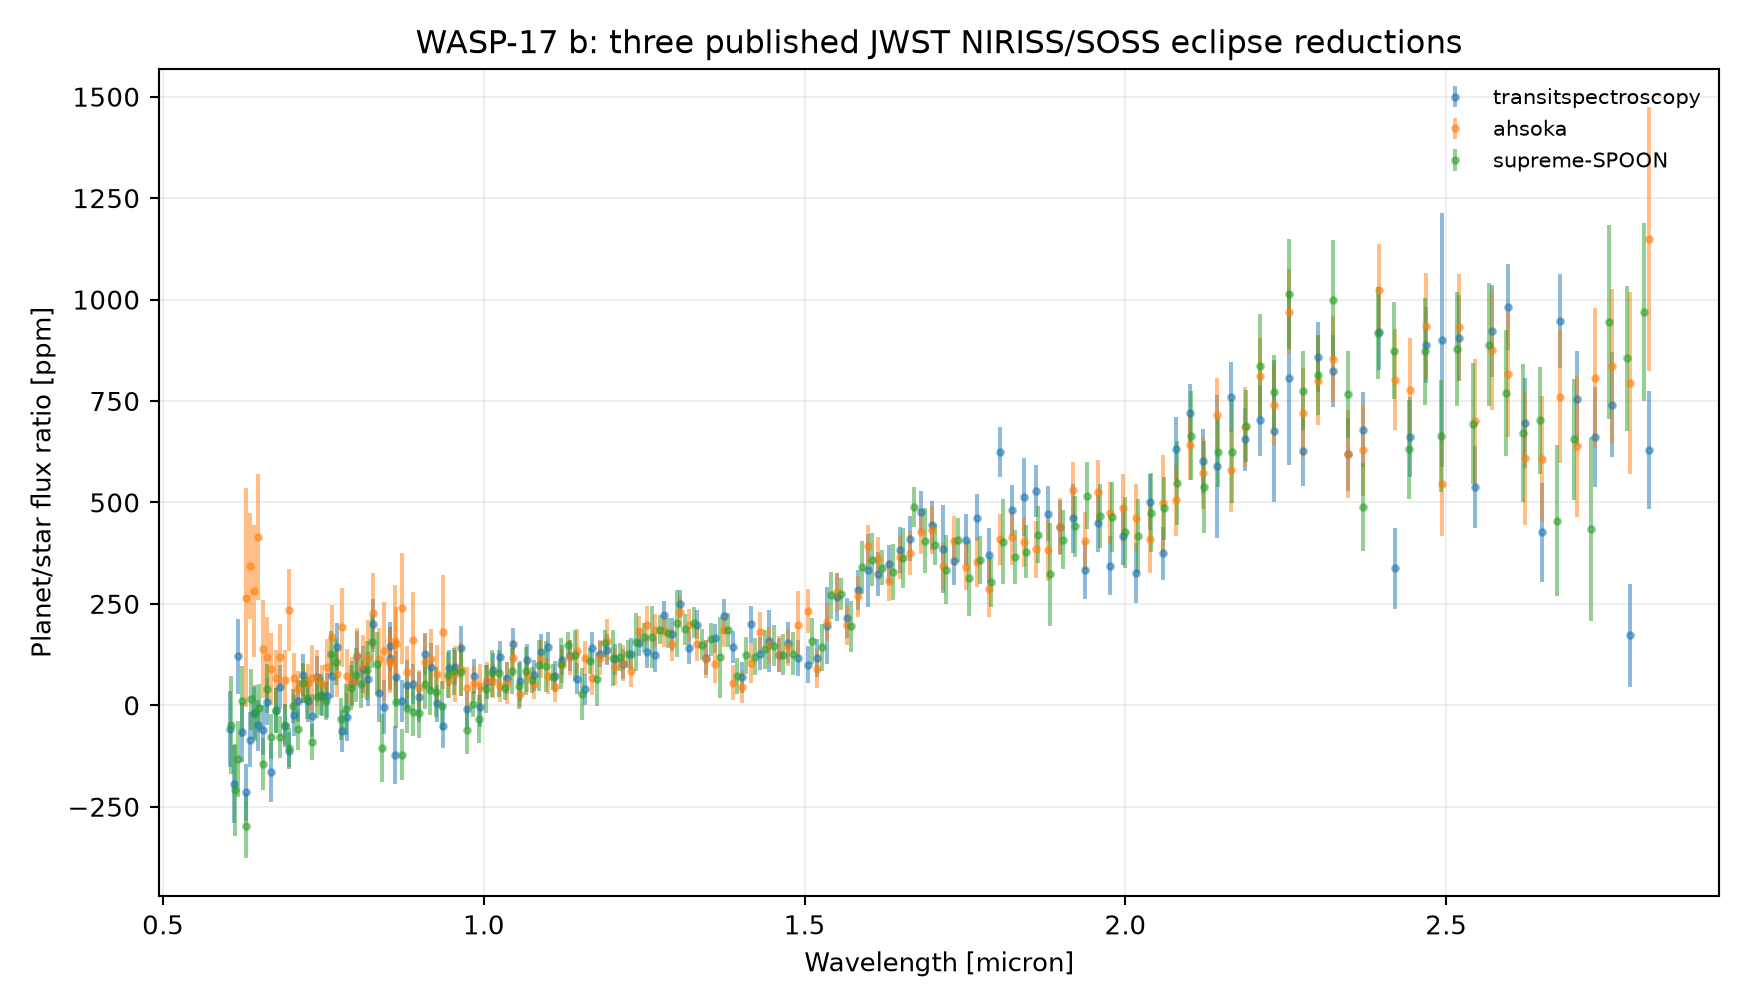
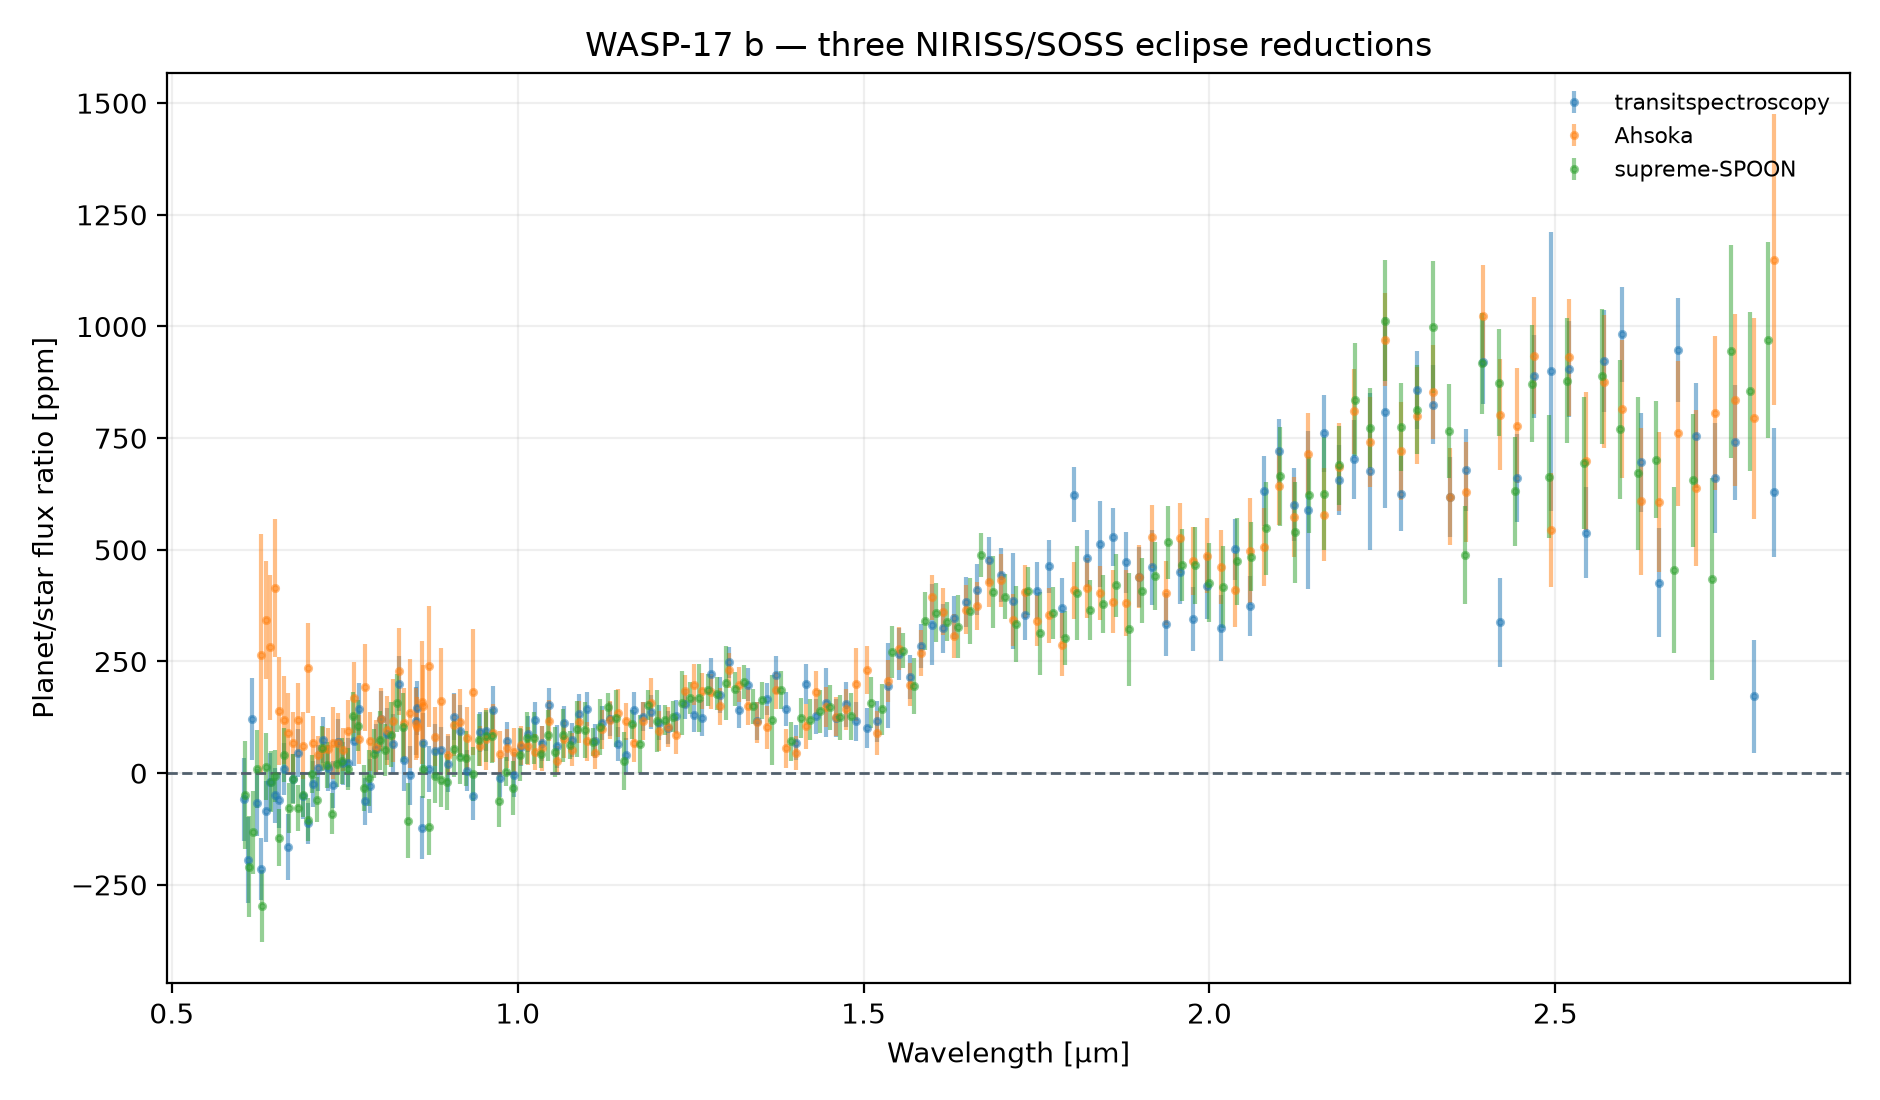
feat: quantify correlated NIRISS reductions

diff --git a/scripts/analyze_spectrum.py b/scripts/analyze_spectrum.py
@@ -1,7 +1,18 @@
+"""Diagnostics for three published reductions of one NIRISS/SOSS eclipse.
+
+The reductions share the same observation and are therefore correlated.
+Pairwise normalized differences are descriptive independence-reference values,
+not formal pipeline-consistency probabilities.
+"""
+
 from __future__ import annotations
+
 import csv
+from itertools import combinations
 from pathlib import Path
+
 import matplotlib
+
 matplotlib.use("Agg")
 import matplotlib.pyplot as plt
 import numpy as np
@@ -11,55 +22,107 @@ ROOT = Path(__file__).resolve().parents[1]
 DATA = ROOT / "data" / "spectra"
 FIGURES = ROOT / "figures"
 STATS_FILE = FIGURES / "spectrum_statistics.csv"
+AGREEMENT_FILE = FIGURES / "pipeline_agreement.csv"
+FIGURE_FILE = FIGURES / "wasp17b_published_spectrum.png"
+AGREEMENT_FIGURE = FIGURES / "wasp17b_pipeline_differences.png"
+
 
 def flat_test(values, errors):
     values, errors = np.asarray(values, float), np.asarray(errors, float)
     good = np.isfinite(values) & np.isfinite(errors) & (errors > 0)
     values, errors = values[good], errors[good]
     weights = 1 / errors**2
-    mean = np.sum(weights * values) / np.sum(weights)
-    statistic = np.sum(((values - mean) / errors)**2)
+    mean = float(np.sum(weights * values) / np.sum(weights))
+    statistic = float(np.sum(((values - mean) / errors) ** 2))
     dof = len(values) - 1
-    return {"n": len(values), "mean": mean, "chi2": statistic, "dof": dof,
-            "p": chi2.sf(statistic, dof)}
+    return {"n": len(values), "mean_ppm": mean, "chi2": statistic, "dof": dof,
+            "reduced_chi2": statistic / dof, "p": float(chi2.sf(statistic, dof)),
+            "negative_bins": int(np.sum(values < 0)),
+            "negative_fraction": float(np.mean(values < 0)),
+            "median_error_ppm": float(np.median(errors))}
 
-def offset_model_test(wavelength, values, errors, model_wavelength, model_values):
-    model = np.interp(wavelength, model_wavelength, model_values)
-    weights = 1 / errors**2
-    offset = np.sum(weights * (values - model)) / np.sum(weights)
-    statistic = np.sum(((values - model - offset) / errors)**2)
-    dof = len(values) - 1
-    return {"n": len(values), "offset": offset, "chi2": statistic,
-            "dof": dof, "p": chi2.sf(statistic, dof), "model": model + offset}
-
-def write_rows(rows):
-    fields = sorted({key for row in rows for key in row})
-    with STATS_FILE.open("w", newline="", encoding="utf-8") as handle:
-        writer = csv.DictWriter(handle, fieldnames=fields)
-        writer.writeheader(); writer.writerows(rows)
-
-FIGURE_FILE = FIGURES / "wasp17b_published_spectrum.png"
 
 def load_reductions():
     first = np.loadtxt(DATA / "transitspectroscopy_reduction_negative.dat")
     ahsoka = np.loadtxt(DATA / "ahsoka_reduction.dat")
     spoon = np.loadtxt(DATA / "supreme_spoon_reduction.dat")
     return [("transitspectroscopy", first[:, 0], first[:, 1] * 1e6, first[:, 2] * 1e6),
-            ("ahsoka", ahsoka[:, 0], ahsoka[:, 2], ahsoka[:, 3]),
+            ("Ahsoka", ahsoka[:, 0], ahsoka[:, 2], ahsoka[:, 3]),
             ("supreme-SPOON", spoon[:, 0], spoon[:, 1], spoon[:, 2])]
 
+
+def compare_pair(first, second):
+    label_a, wave_a, depth_a, error_a = first
+    label_b, wave_b, depth_b, error_b = second
+    low, high = max(wave_a.min(), wave_b.min()), min(wave_a.max(), wave_b.max())
+    keep = (wave_a >= low) & (wave_a <= high)
+    wavelength = wave_a[keep]
+    comparison_depth = np.interp(wavelength, wave_b, depth_b)
+    comparison_error = np.interp(wavelength, wave_b, error_b)
+    difference = depth_a[keep] - comparison_depth
+    reference_sigma = np.sqrt(error_a[keep] ** 2 + comparison_error**2)
+    normalized = difference / reference_sigma
+    return {"pair": f"{label_a} - {label_b}", "n_overlap": len(difference),
+            "wavelength_min_micron": float(low), "wavelength_max_micron": float(high),
+            "median_difference_ppm": float(np.median(difference)),
+            "median_absolute_difference_ppm": float(np.median(np.abs(difference))),
+            "rms_difference_ppm": float(np.sqrt(np.mean(difference**2))),
+            "median_abs_independence_z": float(np.median(np.abs(normalized))),
+            "fraction_abs_independence_z_gt_2": float(np.mean(np.abs(normalized) > 2)),
+            "wavelength": wavelength, "difference": difference,
+            "reference_sigma": reference_sigma}
+
+
+def write_rows(path, rows):
+    fields = sorted({key for row in rows for key in row})
+    with path.open("w", newline="", encoding="utf-8") as handle:
+        writer = csv.DictWriter(handle, fieldnames=fields)
+        writer.writeheader(); writer.writerows(rows)
+
+
 def main():
-    FIGURES.mkdir(exist_ok=True); reductions = load_reductions(); rows = []
-    fig, ax = plt.subplots(figsize=(9.2, 5.3))
+    FIGURES.mkdir(exist_ok=True)
+    reductions = load_reductions()
+    rows = []
+    fig, ax = plt.subplots(figsize=(9.4, 5.5))
     for label, wavelength, depth, error in reductions:
-        result = flat_test(depth, error); rows.append({"comparison": label + " vs weighted flat", **result})
+        result = flat_test(depth, error)
+        below_one = wavelength < 1
+        rows.append({"comparison": label + " vs weighted flat",
+                     "wavelength_min_micron": float(wavelength.min()),
+                     "wavelength_max_micron": float(wavelength.max()),
+                     "negative_bins_below_1_micron": int(np.sum(depth[below_one] < 0)),
+                     "bins_below_1_micron": int(np.sum(below_one)), **result})
         ax.errorbar(wavelength, depth, yerr=error, fmt="o", ms=2.3, alpha=.5, label=label)
-    write_rows(rows)
-    ax.set(xlabel="Wavelength [micron]", ylabel="Planet/star flux ratio [ppm]",
-           title="WASP-17 b: three published JWST NIRISS/SOSS eclipse reductions")
+    write_rows(STATS_FILE, rows)
+    ax.axhline(0, color="#52606d", lw=1, ls="--")
+    ax.set(xlabel="Wavelength [µm]", ylabel="Planet/star flux ratio [ppm]",
+           title="WASP-17 b — three NIRISS/SOSS eclipse reductions")
     ax.grid(alpha=.2); ax.legend(frameon=False, fontsize=8); fig.tight_layout()
-    fig.savefig(FIGURE_FILE, dpi=190); plt.close(fig)
-    return {"rows": rows, "n": min(row["n"] for row in rows)}
+    fig.savefig(FIGURE_FILE, dpi=200); plt.close(fig)
+
+    pairs = [compare_pair(a, b) for a, b in combinations(reductions, 2)]
+    write_rows(AGREEMENT_FILE, [{key: value for key, value in pair.items()
+                                 if key not in {"wavelength", "difference", "reference_sigma"}}
+                                for pair in pairs])
+    fig, axes = plt.subplots(len(pairs), 1, figsize=(9.5, 7.2), sharex=True)
+    for ax, pair in zip(axes, pairs):
+        ax.axhline(0, color="#52606d", lw=1)
+        ax.fill_between(pair["wavelength"], -pair["reference_sigma"], pair["reference_sigma"],
+                        color="#0f766e", alpha=.12, label="± quadrature error reference")
+        ax.plot(pair["wavelength"], pair["difference"], "o", ms=2.4, color="#17212b")
+        ax.set_ylabel("Δ eclipse depth\n[ppm]")
+        ax.set_title(pair["pair"], loc="left", fontsize=10)
+        ax.grid(alpha=.18); ax.legend(frameon=False, fontsize=7, loc="upper right")
+    axes[-1].set_xlabel("Reference-grid wavelength [µm]")
+    fig.suptitle("Cross-pipeline differences — descriptive because reductions share data", fontsize=11)
+    fig.tight_layout(); fig.savefig(AGREEMENT_FIGURE, dpi=200); plt.close(fig)
+    return {"rows": rows, "pairs": pairs, "n": min(row["n"] for row in rows)}
+
 
 if __name__ == "__main__":
-    result = main(); print(f"WASP-17 b: three reductions; at least {result['n']} bins each")
+    result = main()
+    print(f"WASP-17 b: three reductions; at least {result['n']} bins each")
+    for pair in result["pairs"]:
+        print(f"{pair['pair']}: median |difference|={pair['median_absolute_difference_ppm']:.1f} ppm; "
+              f"median |independence z|={pair['median_abs_independence_z']:.2f}")

diff --git a/tests/test_provenance.py b/tests/test_provenance.py
@@ -1,0 +1,21 @@
+"""Checksum regression tests for every archived scientific input."""
+
+import hashlib
+from pathlib import Path
+
+ROOT = Path(__file__).resolve().parents[1]
+EXPECTED = {
[5 lines of base64/hex data omitted]
+}
+
+
+def test_inputs_match_source_manifest():
+    manifest = (ROOT / "data" / "SOURCE.md").read_text(encoding="utf-8")
+    for relative, expected in EXPECTED.items():
+        path = ROOT / relative
+        assert hashlib.sha256(path.read_bytes()).hexdigest() == expected
+        assert path.name in manifest and expected in manifest

diff --git a/tests/test_spectrum.py b/tests/test_spectrum.py
@@ -1,12 +1,19 @@
 """Reproduction checks for the archived published spectrum."""
 from pathlib import Path
-import numpy as np
+
 import analyze_spectrum as spectrum
+import numpy as np
+
 
 def test_spectrum_analysis_is_finite_and_reproducible():
     result = spectrum.main()
-    assert result["n"] > 5
-    assert result["rows"]
+    assert result["n"] == 151
+    assert len(result["rows"]) == 3
+    assert len(result["pairs"]) == 3
     assert all(np.isfinite(row["chi2"]) and row["dof"] > 0 for row in result["rows"])
-    for path in (spectrum.STATS_FILE, spectrum.FIGURE_FILE):
+    assert all(row["reduced_chi2"] > 8 for row in result["rows"])
+    assert [row["negative_bins"] for row in result["rows"]] == [21, 0, 25]
+    assert all(pair["median_abs_independence_z"] < 1 for pair in result["pairs"])
+    for path in (spectrum.STATS_FILE, spectrum.AGREEMENT_FILE,
+                 spectrum.FIGURE_FILE, spectrum.AGREEMENT_FIGURE):
         assert Path(path).is_file() and Path(path).stat().st_size > 100

diff --git a/scripts/analyze_transit.py b/scripts/analyze_transit.py
@@ -10,11 +10,13 @@ the result is a reproducible diagnostic fit, not a precision global retrieval.
 from __future__ import annotations
 
 import csv
+from itertools import pairwise
 from pathlib import Path
 
-from astropy.io import fits
 import batman
 import matplotlib
+from astropy.io import fits
+
 matplotlib.use("Agg")
 import matplotlib.pyplot as plt
 import numpy as np
@@ -166,7 +168,7 @@ def compare_models(time: np.ndarray, flux: np.ndarray, error: np.ndarray) -> dic
 
 def binned_curve(offset: np.ndarray, flux: np.ndarray, error: np.ndarray, bins: int = 70):
     edges = np.linspace(offset.min(), offset.max(), bins + 1); centers, means, uncertainties = [], [], []
-    for left, right in zip(edges[:-1], edges[1:]):
+    for left, right in pairwise(edges):
         chosen = (offset >= left) & (offset < right)
         if not chosen.any(): continue
         weights = 1 / error[chosen]**2

diff --git a/tests/test_analysis.py b/tests/test_analysis.py
@@ -1,12 +1,13 @@
 """Regression tests for the timing-adjusted real-data transit fit."""
 
 import json
-import numpy as np
+
 import analyze_transit as analysis
+import numpy as np
 
 
 def test_real_fits_loads_and_physical_fit_converges():
-    time, flux, error, clipped = analysis.load_light_curve()
+    time, flux, error, _clipped = analysis.load_light_curve()
     assert len(time) > 100 and np.all(np.isfinite(flux)) and np.all(error > 0)
     result = analysis.compare_models(time, flux, error)
     assert result["fit_success"]

diff --git a/scripts/analyze_multisector.py b/scripts/analyze_multisector.py
@@ -11,15 +11,14 @@ from __future__ import annotations
 import csv
 from pathlib import Path
 
-from astropy.io import fits
 import matplotlib
+from astropy.io import fits
+
 matplotlib.use("Agg")
+import analyze_transit as base
 import matplotlib.pyplot as plt
 import numpy as np
 from scipy.stats import chi2
-
-import analyze_transit as base
-
 
 STATS_FILE = base.FIG_DIR / "multisector_statistics.csv"
 STEM = base.FIGURE_FILE.stem.replace("_tess_transit", "")

diff --git a/scripts/analyze_atmospheric_evidence.py b/scripts/analyze_atmospheric_evidence.py
@@ -11,7 +11,6 @@ from pathlib import Path
 
 import matplotlib.pyplot as plt
 
-
 ROOT = Path(__file__).resolve().parents[1]
 INPUT = ROOT / "data" / "atmospheric_evidence.csv"
 OUTPUT = ROOT / "figures" / "molecular_evidence.png"

diff --git a/tests/test_multisector.py b/tests/test_multisector.py
@@ -2,8 +2,8 @@
 
 from pathlib import Path
 
-import numpy as np
 import analyze_multisector as multi
+import numpy as np
 
 
 def test_all_committed_spoc_files_are_accounted_for():

diff --git a/data/SOURCE.md b/data/SOURCE.md
@@ -44,6 +44,10 @@ All are unmodified standard-cadence SPOC light curves from the same [MAST TESS c
 
 - Archive record: [10.5281/zenodo.14003330](https://zenodo.org/records/14003330)
 - Data type: emission; instrument: JWST NIRISS/SOSS
[6 lines of base64/hex data omitted]
+
+The earlier manifest listed three incorrect spectrum hashes; the values above
+were recomputed byte-for-byte from the committed files and are enforced by the
+test suite. The files themselves were not modified by this correction.
